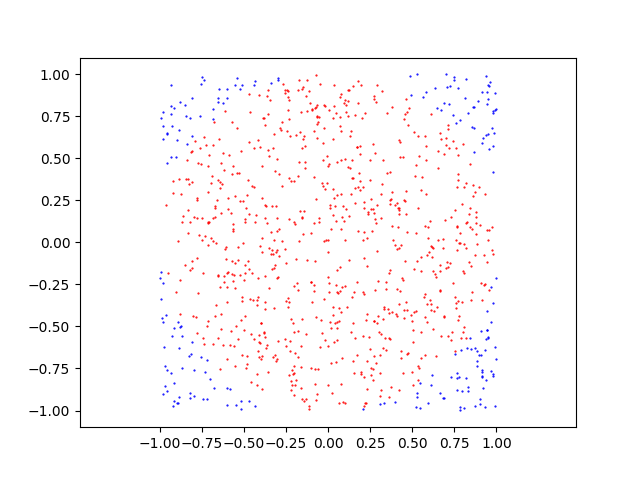
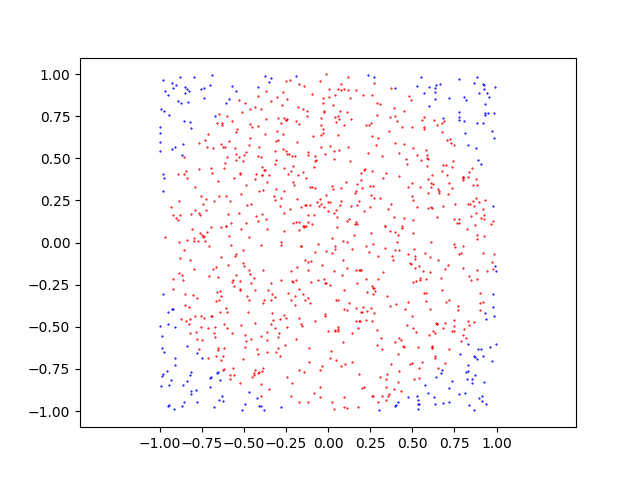
uncommented the experiments in main

diff --git a/MA3.py b/MA3.py
@@ -115,45 +115,45 @@ def sphere_volume_parallel(n, d, np=10):
 
 
 def main():
-    # # Exc1
-    # dots = [1000, 10000, 100000]
-    # for n in dots:
-    #     approximate_pi(n)
+    # Exc1
+    dots = [1000, 10000, 100000]
+    for n in dots:
+        approximate_pi(n)
 
-    # # Exc2
-    # n = 100000
-    # d = 2
-    # r = 1
+    # Exc2
+    n = 100000
+    d = 2
+    r = 1
 
-    # print(f"Approximate volume of {d} dimensional sphere with radius r = {r} (using n = {n}) = {sphere_volume(n, d)}")
-    # print(f"Actual volume of {d} dimensional sphere = {hypersphere_exact(n,d)}")
+    print(f"Approximate volume of {d} dimensional sphere with radius r = {r} (using n = {n}) = {sphere_volume(n, d)}")
+    print(f"Actual volume of {d} dimensional sphere = {hypersphere_exact(n,d)}")
 
-    # n = 100000
-    # d = 11
-    # r = 1
+    n = 100000
+    d = 11
+    r = 1
 
-    # print(f"Approximate volume of {d} dimensional sphere with radius r = {r} (using n = {n}) = {sphere_volume(n, d)}")
-    # print(f"Actual volume of {d} dimensional sphere with radius r = {r} = {hypersphere_exact(n,d)}")
+    print(f"Approximate volume of {d} dimensional sphere with radius r = {r} (using n = {n}) = {sphere_volume(n, d)}")
+    print(f"Actual volume of {d} dimensional sphere with radius r = {r} = {hypersphere_exact(n,d)}")
 
-    # # Exc3: 
-    # n = 1000000
-    # d = 11
+    # Exc3: 
+    n = 1000000
+    d = 11
 
-    # times_python = []
-    # for i in range(3):
-    #     start = pc()
-    #     sphere_volume(n, d)
-    #     stop = pc()
-    #     times_python.append(stop-start)
-    #     print(f"Exc3: Sequential time of d = {d} and n = {n} using conventional Python (call {i+1}): {stop-start}")
+    times_python = []
+    for i in range(3):
+        start = pc()
+        sphere_volume(n, d)
+        stop = pc()
+        times_python.append(stop-start)
+        print(f"Exc3: Sequential time of d = {d} and n = {n} using conventional Python (call {i+1}): {stop-start}")
     
-    # times_numba = []
-    # for i in range(3):
-    #     start_numba = pc()
-    #     sphere_volume_numba(n, d)
-    #     stop_numba = pc()
-    #     times_numba.append(stop_numba-start_numba)
-    #     print(f"Exc3: Sequential time of d = {d} and n = {n} using Numba (call {i+1}): {stop_numba-start_numba}")
+    times_numba = []
+    for i in range(3):
+        start_numba = pc()
+        sphere_volume_numba(n, d)
+        stop_numba = pc()
+        times_numba.append(stop_numba-start_numba)
+        print(f"Exc3: Sequential time of d = {d} and n = {n} using Numba (call {i+1}): {stop_numba-start_numba}")
 
     # # Plot the times for Python and Numba together
     # plt.plot([1, 2, 3], times_python, marker="o", label="Conventional Python")
@@ -177,13 +177,23 @@ def main():
     sphere_volume(n, d)
     stop = pc()
     print(f"Exc4: Sequential time of {d} and {n}: {stop-start}")
-    # Exc4: Sequential time of 11 and 1000000: 4.402295300038531
 
     start_parallel = pc()
     sphere_volume_parallel(n, d)
     stop_parallel = pc()
     print(f"Exc4: Parallel time of {d} and {n}: {stop_parallel-start_parallel}")
+    
+    # On local PC
+    # Exc4: Sequential time of 11 and 1000000: 4.402295300038531
     # Exc4: Parallel time of 11 and 1000000: 6.063679000129923
+
+    # On Linux Servers
+    #Exc4: Sequential time of 11 and 1000000: 14.091906297020614
+    #Exc4: Parallel time of 11 and 1000000: 1.5753624450881034
+
+    # Differences
+    # Sequential: About 9.7 seconds slower on Linux server
+    # Parallel: About 4.5 secound faster on Linux server (approx 3.85 times as fast)
     
 
 if __name__ == '__main__':
